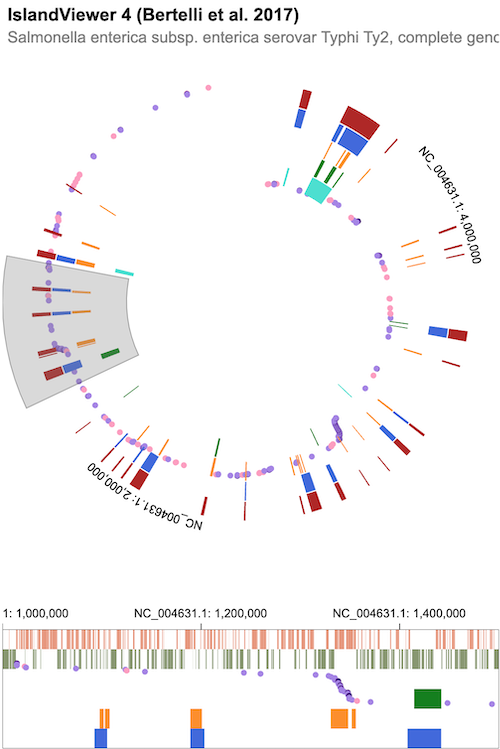
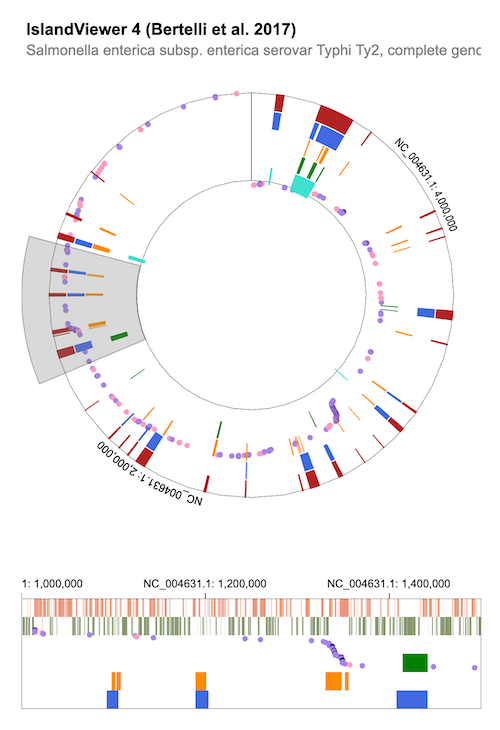
feat: adapt to suggestions, update thumbnail

diff --git a/editor/example/spec/islandviewer.ts b/editor/example/spec/islandviewer.ts
@@ -8,6 +8,7 @@ const linearSize = linearHeight / 6;
 const spec: GoslingSpec = {
     title: 'IslandViewer 4 (Bertelli et al. 2017)',
     subtitle: 'Salmonella enterica subsp. enterica serovar Typhi Ty2, complete genome.',
+    description: 'Reimplementation of https://www.pathogenomics.sfu.ca/islandviewer/accession/NC_004631.1/',
     assembly: [['NC_004631.1', 4791961]],
     spacing: 50,
     views: [
@@ -15,8 +16,10 @@ const spec: GoslingSpec = {
             layout: 'circular',
             static: true,
             alignment: 'overlay',
+            spacing: 0.1,
             tracks: [
                 {
+                    style: { outlineWidth: 1, outline: 'black' },
                     data: {
                         url: 'https://s3.amazonaws.com/gosling-lang.org/data/IslandViewer/NC_004631.1_annotations.csv',
                         type: 'csv',
